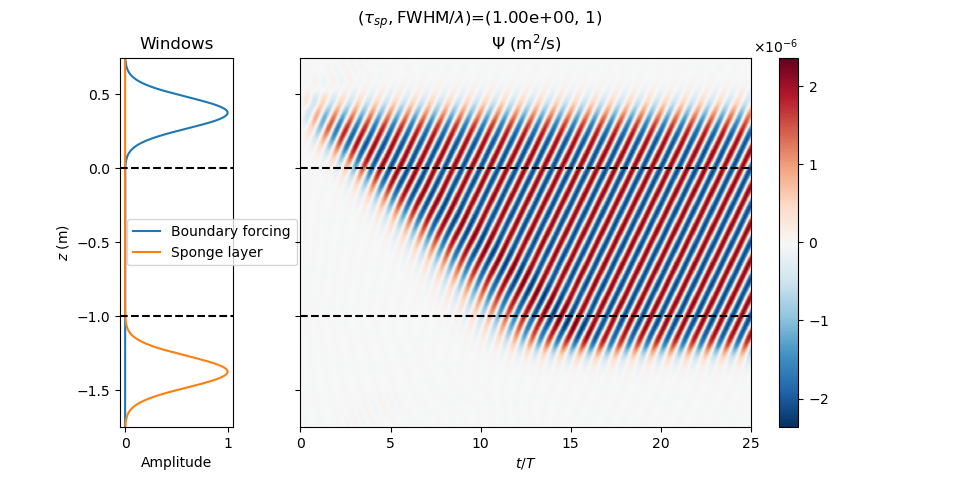
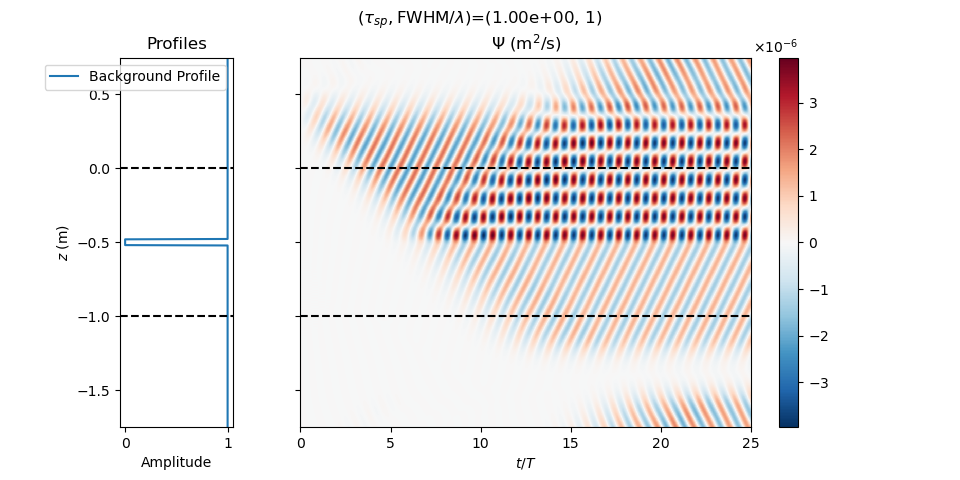
Now can choose to plot bp, bf, or sp separately

diff --git a/stand_alone_trim.py b/stand_alone_trim.py
@@ -25,8 +25,8 @@ logger = logging.getLogger(__name__)
 
 ###############################################################################
 # Switches
-plot_profiles = True
-run_sim = False
+plot_profiles = False
+run_sim = True
 
 ###############################################################################
 # Run parameters
@@ -181,7 +181,7 @@ if run_sim == False:
 # Define equations
 problem.add_equation("dt( dz(dz(foo)) - (k**2)*foo ) " \
                      " - NU*(dz(dz(dz(dz(psi)))) + (k**4)*psi) " \
-                     " = (k**2)*(N0**2)*psi " \
+                     " = (k**2)*BP*(N0**2)*psi " \
                      " + F_term_psi - S_term_psi ")
 # LHS must be first-order in ['dt'], so I'll define a temp variable
 problem.add_equation("foo - dt(psi) = 0")
@@ -254,7 +254,7 @@ finally:
 psi_g_array = np.transpose(np.array(psi_gs))
 t_array = np.array(t_list)
 
-def plot_z_vs_t(z, t_array, T, w_array, win_bf_array, win_sp_array, z0_dis=None, zf_dis=None, c_map='RdBu_r', title_str='1D forced wave'):
+def plot_z_vs_t(z, t_array, T, w_array, bp_array=None, bf_array=None, sp_array=None, z0_dis=None, zf_dis=None, c_map='RdBu_r', title_str='1D forced wave'):
     # Set aspect ratio of overall figure
     w, h = mpl.figure.figaspect(0.5)
     # This dictionary makes each subplot have the desired ratios
@@ -264,7 +264,7 @@ def plot_z_vs_t(z, t_array, T, w_array, win_bf_array, win_sp_array, z0_dis=None,
     # Set ratios by passing dictionary as 'gridspec_kw', and share y axis
     fig, axes = plt.subplots(figsize=(w,h), nrows=1, ncols=2, gridspec_kw=plot_ratios, sharey=True)
     #
-    plot_v_profile(axes[0], win_bf_array, win_sp_array, z, omega, z0_dis, zf_dis)
+    plot_v_profile(axes[0], z, omega, z0_dis, zf_dis, bp_array, bf_array, sp_array)
     #
     xmesh, ymesh = quad_mesh(x=t_array/T, y=z)
     im = axes[1].pcolormesh(xmesh, ymesh, w_array, cmap=c_map)
@@ -288,4 +288,4 @@ def plot_z_vs_t(z, t_array, T, w_array, win_bf_array, win_sp_array, z0_dis=None,
     plt.savefig('stand_alone_wave.png')
 
 title_str = r'$(\tau_{sp}, $FWHM$/\lambda)$=(%.2e, %d)' %(tau_sp,b_sp/lam_z)
-plot_z_vs_t(z, t_array, T, psi_g_array, win_bf_array, win_sp_array, z0_dis, zf_dis, c_map='RdBu_r', title_str=title_str)
+plot_z_vs_t(z, t_array, T, psi_g_array, bp_array=BP_array, bf_array=None, sp_array=None, z0_dis=z0_dis, zf_dis=zf_dis, c_map='RdBu_r', title_str=title_str)
